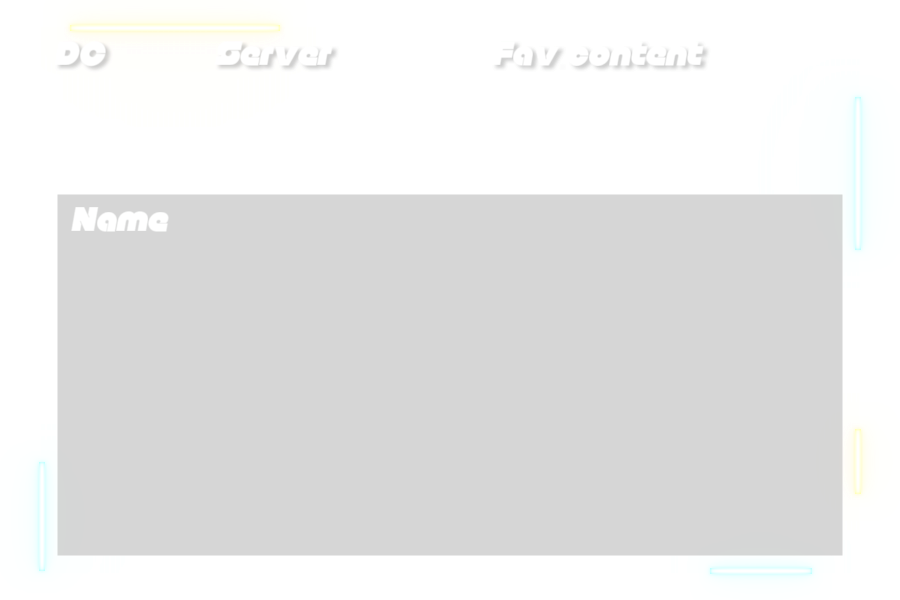
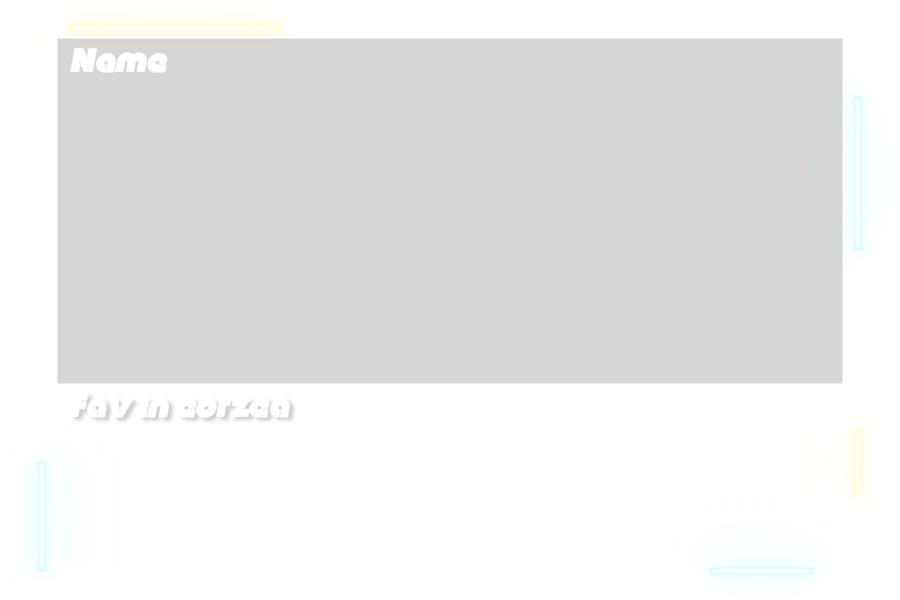
[FIX] Fixed the canvas setting.

diff --git a/src/app/app.component.ts b/src/app/app.component.ts
@@ -1,7 +1,8 @@
 import { Component, OnInit } from '@angular/core';
 import { CommonModule } from '@angular/common';
-import { RouterOutlet } from '@angular/router';
+import { ActivatedRoute, RouterOutlet } from '@angular/router';
 import { fabric } from 'fabric';
+import { skip } from 'rxjs';
 
 @Component({
   selector: 'app',
@@ -11,17 +12,47 @@ import { fabric } from 'fabric';
   styleUrls: ['./app.component.less'],
 })
 export class AppComponent implements OnInit {
-  name = 'Angular';
-  canvas: any;
+  private canvas: fabric.Canvas;
 
-  constructor() {}
+  constructor(private route: ActivatedRoute) {
+    this.canvas = new fabric.Canvas('canvas');
+  }
 
   ngOnInit() {
-    this.canvas = new fabric.Canvas('canvas');
-    this.canvas.add(
-      new fabric.IText("I'm a normal text", {
-        fontWeight: 'normal',
-      })
-    );
+    this.route.queryParams.pipe(skip(1)).subscribe((params) => {
+      this.canvas = new fabric.Canvas('canvas', {
+        backgroundColor: '#000',
+      });
+
+      if (params) {
+        fabric.Image.fromURL('/assets/background.png', (img) => {
+          img.selectable = false;
+          this.canvas.add(img);
+        });
+        fabric.Image.fromURL('/assets/textarea.png', (img) => {
+          img.selectable = false;
+          this.canvas.add(img);
+        });
+        fabric.Image.fromURL('/assets/adminframe.png', (img) => {
+          img.selectable = false;
+          this.canvas.add(img);
+        });
+        fabric.Image.fromURL(`/assets/icon/${params['job']}.png`, (img) => {
+          img.selectable = false;
+          img.left = 400;
+          img.top = 50;
+          img.scale(0.7);
+          this.canvas.add(img);
+        });
+      }
+    });
+  }
+
+  public downloadClick(): void {
+    const base64 = document.getElementById('canvas') as HTMLCanvasElement;
+    const link = document.createElement('a');
+    link.href = base64.toDataURL('image/png');
+    link.download = `test.png`;
+    link.click();
   }
 }

diff --git a/src/app/app.component.html b/src/app/app.component.html
@@ -1,3 +1,2 @@
-<p>Start editing to see some magic happen :)</p>
-
-<canvas id="canvas" width="800" height="560"></canvas>
+<canvas id="canvas" width="900" height="600"></canvas>
+<!-- <button (click)="downloadClick()">download</button> -->
